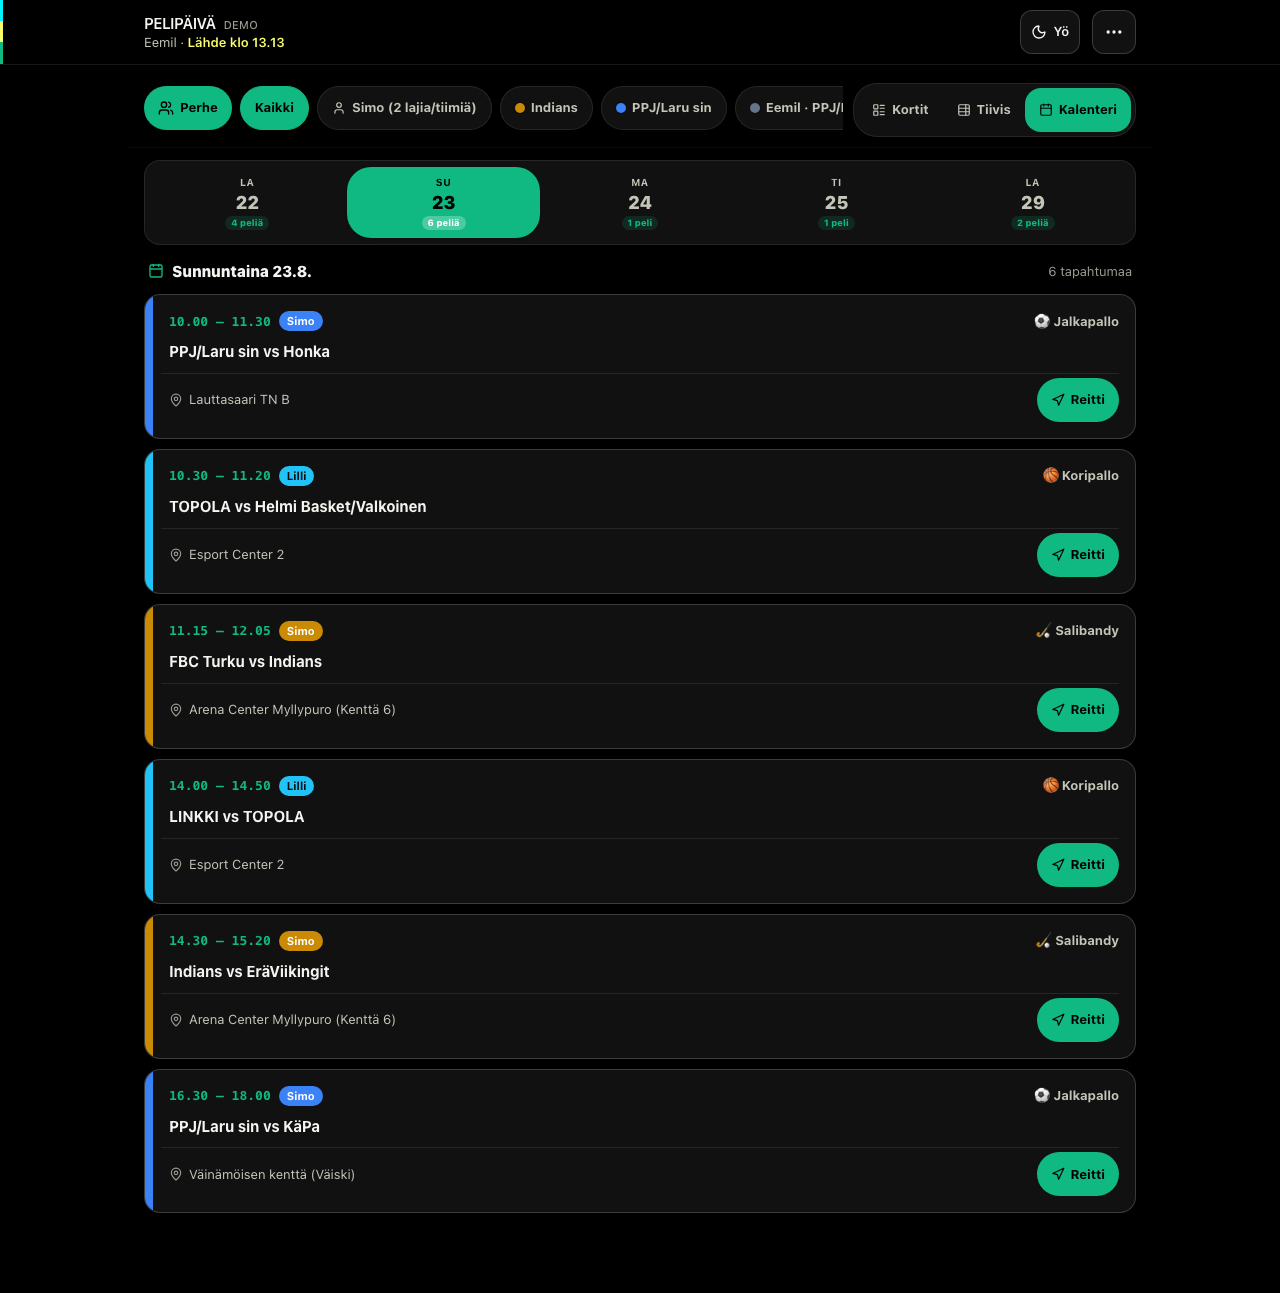
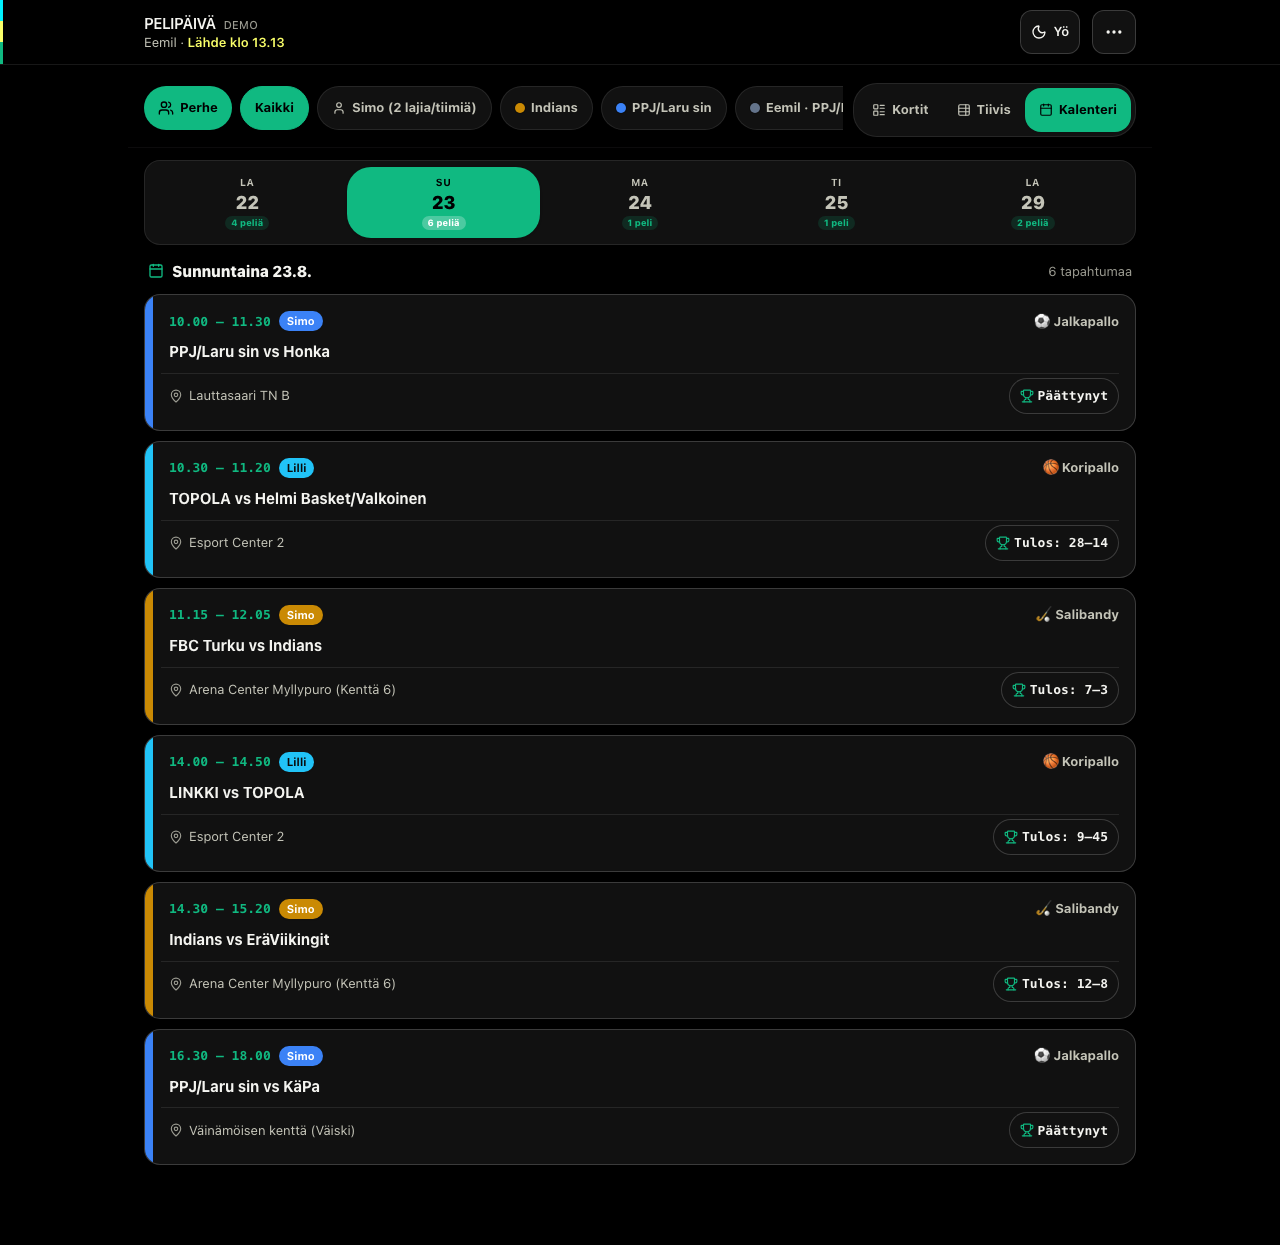
feat(ui): display match results instead of Reitti button for past games

diff --git a/src/components/TimelineCalendarView.tsx b/src/components/TimelineCalendarView.tsx
@@ -227,7 +227,7 @@ export const TimelineCalendarView: React.FC<TimelineCalendarViewProps> = ({
                       );
                     })()}
 
-                    {/* Bottom Row: Venue, Nappisvahti & Navigation */}
+                    {/* Bottom Row: Venue, Nappisvahti & Navigation / Result */}
                     <div className="pl-1.5 pt-2 border-t border-border-subtle/60 flex items-center justify-between text-xs text-text-secondary gap-2">
                       <div className="flex items-center gap-1.5 truncate min-w-0">
                         <MapPin className="w-3.5 h-3.5 text-text-muted shrink-0" />
@@ -239,26 +239,35 @@ export const TimelineCalendarView: React.FC<TimelineCalendarViewProps> = ({
                         )}
                       </div>
 
-                      <button
-                        type="button"
-                        aria-label={`Navigoi kentälle ${ev.venue.name}`}
-                        onClick={(e) => {
-                          e.stopPropagation();
-                          if (onNavigate) {
-                            onNavigate(ev);
-                          } else {
-                            const coords = ev.parking?.coordinates || ev.venue.coordinates;
-                            window.open(
-                              `https://www.google.com/maps/dir/?api=1&destination=${coords.lat},${coords.lng}`,
-                              '_blank'
-                            );
-                          }
-                        }}
-                        className="min-h-[44px] px-3 rounded-xl bg-pitch/15 text-pitch hover:bg-pitch hover:text-text-inverse text-xs font-bold flex items-center gap-1.5 cursor-pointer transition-all shrink-0 focus-visible:ring-2 focus-visible:ring-pitch"
-                      >
-                        <Navigation className="w-3.5 h-3.5" />
-                        <span>Reitti</span>
-                      </button>
+                      {new Date(ev.endTime) <= new Date() || ev.score !== undefined ? (
+                        <div className="flex items-center gap-1.5 shrink-0">
+                          <span className="min-h-[36px] px-2.5 rounded-xl bg-surface border border-border-strong text-text-primary font-mono font-black text-xs flex items-center gap-1 shadow-2xs">
+                            <Trophy className="w-3.5 h-3.5 text-pitch" />
+                            <span>{ev.score ? `Tulos: ${ev.score}` : 'Päättynyt'}</span>
+                          </span>
+                        </div>
+                      ) : (
+                        <button
+                          type="button"
+                          aria-label={`Navigoi kentälle ${ev.venue.name}`}
+                          onClick={(e) => {
+                            e.stopPropagation();
+                            if (onNavigate) {
+                              onNavigate(ev);
+                            } else {
+                              const coords = ev.parking?.coordinates || ev.venue.coordinates;
+                              window.open(
+                                `https://www.google.com/maps/dir/?api=1&destination=${coords.lat},${coords.lng}`,
+                                '_blank'
+                              );
+                            }
+                          }}
+                          className="min-h-[44px] px-3 rounded-xl bg-pitch/15 text-pitch hover:bg-pitch hover:text-text-inverse text-xs font-bold flex items-center gap-1.5 cursor-pointer transition-all shrink-0 focus-visible:ring-2 focus-visible:ring-pitch"
+                        >
+                          <Navigation className="w-3.5 h-3.5" />
+                          <span>Reitti</span>
+                        </button>
+                      )}
                     </div>
                   </motion.div>
                 );
@@ -395,27 +404,37 @@ export const TimelineCalendarView: React.FC<TimelineCalendarViewProps> = ({
                     );
                   })()}
 
-                  <div className="pl-2 flex items-center justify-between text-xs text-text-secondary pt-1 border-t border-border-subtle">
-                    <div className="flex items-center gap-1.5 truncate">
+                  <div className="pl-2 flex items-center justify-between text-xs text-text-secondary pt-1 border-t border-border-subtle gap-2">
+                    <div className="flex items-center gap-1.5 truncate min-w-0">
                       <MapPin className="w-3.5 h-3.5 text-text-muted shrink-0" />
                       <span className="truncate">{ev.venue.name}</span>
                     </div>
 
-                    <button
-                      type="button"
-                      aria-label={`Navigoi kentälle ${ev.venue.name}`}
-                      onClick={() => {
-                        const coords = ev.parking?.coordinates || ev.venue.coordinates;
-                        window.open(
-                          `https://www.google.com/maps/dir/?api=1&destination=${coords.lat},${coords.lng}`,
-                          '_blank'
-                        );
-                      }}
-                      className="min-h-[44px] px-3.5 rounded-xl bg-pitch text-text-inverse font-bold text-xs flex items-center gap-1.5 hover:brightness-110 cursor-pointer transition-all shadow-xs focus-visible:ring-2 focus-visible:ring-pitch"
-                    >
-                      <Navigation className="w-3.5 h-3.5" />
-                      <span>Reitti</span>
-                    </button>
+                    {new Date(ev.endTime) <= new Date() || ev.score !== undefined ? (
+                      <div className="flex items-center gap-1.5 shrink-0">
+                        <span className="min-h-[36px] px-2.5 rounded-xl bg-surface border border-border-strong text-text-primary font-mono font-black text-xs flex items-center gap-1 shadow-2xs">
+                          <Trophy className="w-3.5 h-3.5 text-pitch" />
+                          <span>{ev.score ? `Tulos: ${ev.score}` : 'Päättynyt'}</span>
+                        </span>
+                      </div>
+                    ) : (
+                      <button
+                        type="button"
+                        aria-label={`Navigoi kentälle ${ev.venue.name}`}
+                        onClick={(e) => {
+                          e.stopPropagation();
+                          const coords = ev.parking?.coordinates || ev.venue.coordinates;
+                          window.open(
+                            `https://www.google.com/maps/dir/?api=1&destination=${coords.lat},${coords.lng}`,
+                            '_blank'
+                          );
+                        }}
+                        className="min-h-[44px] px-3.5 rounded-xl bg-pitch text-text-inverse font-bold text-xs flex items-center gap-1.5 hover:brightness-110 cursor-pointer transition-all shadow-xs shrink-0 focus-visible:ring-2 focus-visible:ring-pitch"
+                      >
+                        <Navigation className="w-3.5 h-3.5" />
+                        <span>Reitti</span>
+                      </button>
+                    )}
                   </div>
                 </div>
               );

diff --git a/src/components/TournamentWeekendPanel.tsx b/src/components/TournamentWeekendPanel.tsx
@@ -174,25 +174,31 @@ export const TournamentWeekendPanel: React.FC<TournamentWeekendPanelProps> = ({ 
                               {m.title}
                             </span>
 
-                            <button
-                              type="button"
-                              aria-label={`Navigoi kentälle ${m.venue.name}`}
-                              onClick={() => {
-                                if (onNavigate) {
-                                  onNavigate(m.venue.coordinates);
-                                } else {
-                                  const coords = m.parking?.coordinates || m.venue.coordinates;
-                                  window.open(
-                                    `https://www.google.com/maps/dir/?api=1&destination=${coords.lat},${coords.lng}`,
-                                    '_blank'
-                                  );
-                                }
-                              }}
-                              className="inline-flex items-center gap-1 px-2 py-1 rounded-lg bg-pitch/15 text-pitch hover:bg-pitch hover:text-text-inverse transition-all cursor-pointer text-[11px] font-bold shrink-0"
-                            >
-                              <Navigation className="w-3 h-3" />
-                              <span>{m.venue.name.includes('Kenttä') ? m.venue.name.split('(')[1]?.replace(')', '') || 'Kenttä' : 'Reitti'}</span>
-                            </button>
+                            {isPast || m.score ? (
+                              <span className="inline-flex items-center px-2 py-0.5 rounded-lg bg-surface border border-border-strong text-text-primary font-mono font-black text-xs shrink-0 shadow-2xs">
+                                {m.score ? `Tulos: ${m.score}` : 'Päättynyt'}
+                              </span>
+                            ) : (
+                              <button
+                                type="button"
+                                aria-label={`Navigoi kentälle ${m.venue.name}`}
+                                onClick={() => {
+                                  if (onNavigate) {
+                                    onNavigate(m.venue.coordinates);
+                                  } else {
+                                    const coords = m.parking?.coordinates || m.venue.coordinates;
+                                    window.open(
+                                      `https://www.google.com/maps/dir/?api=1&destination=${coords.lat},${coords.lng}`,
+                                      '_blank'
+                                    );
+                                  }
+                                }}
+                                className="inline-flex items-center gap-1 px-2 py-1 rounded-lg bg-pitch/15 text-pitch hover:bg-pitch hover:text-text-inverse transition-all cursor-pointer text-[11px] font-bold shrink-0"
+                              >
+                                <Navigation className="w-3 h-3" />
+                                <span>{m.venue.name.includes('Kenttä') ? m.venue.name.split('(')[1]?.replace(')', '') || 'Kenttä' : 'Reitti'}</span>
+                              </button>
+                            )}
                           </div>
                         </div>
                       );

diff --git a/src/components/MatchdayCard.tsx b/src/components/MatchdayCard.tsx
@@ -510,24 +510,38 @@ export const MatchdayCard: React.FC<MatchdayCardProps> = ({
               <Share2 className="w-4 h-4" />
             </motion.button>
 
-            <motion.button
-              whileHover={{ scale: 1.03 }}
-              whileTap={{ scale: 0.96 }}
-              transition={springTactile.snappy}
-              onClick={
-                onNavigateToVenue ||
-                (() => {
-                  const targetCoords = event.parking?.coordinates || event.venue.coordinates;
-                  const mapsUrl = `https://www.google.com/maps/dir/?api=1&destination=${targetCoords.lat},${targetCoords.lng}`;
-                  window.open(mapsUrl, '_blank');
-                })
-              }
-              aria-label={`Navigoi kohteeseen ${event.venue.name}`}
-              className="inline-flex min-h-[44px] items-center gap-2 px-4 py-2.5 rounded-xl bg-pitch text-text-inverse font-bold text-xs shadow-md shadow-pitch/20 hover:brightness-110 active:brightness-95 cursor-pointer focus-visible:ring-2 focus-visible:ring-pitch transition-all"
-            >
-              <Navigation className="w-3.5 h-3.5" />
-              <span>Navigoi paikalle</span>
-            </motion.button>
+            {isPast ? (
+              <motion.button
+                whileHover={{ scale: 1.03 }}
+                whileTap={{ scale: 0.96 }}
+                transition={springTactile.snappy}
+                onClick={() => setIsStatsModalOpen(true)}
+                aria-label="Avaa ottelutilastot ja tulos"
+                className="inline-flex min-h-[44px] items-center gap-2 px-4 py-2.5 rounded-xl bg-surface-elevated border border-border-strong text-text-primary font-bold text-xs shadow-xs hover:border-pitch hover:text-pitch cursor-pointer focus-visible:ring-2 focus-visible:ring-pitch transition-all"
+              >
+                <Trophy className="w-3.5 h-3.5 text-pitch" />
+                <span>{currentScore ? `Tulos: ${currentScore}` : 'Katso tilastot & tulos'}</span>
+              </motion.button>
+            ) : (
+              <motion.button
+                whileHover={{ scale: 1.03 }}
+                whileTap={{ scale: 0.96 }}
+                transition={springTactile.snappy}
+                onClick={
+                  onNavigateToVenue ||
+                  (() => {
+                    const targetCoords = event.parking?.coordinates || event.venue.coordinates;
+                    const mapsUrl = `https://www.google.com/maps/dir/?api=1&destination=${targetCoords.lat},${targetCoords.lng}`;
+                    window.open(mapsUrl, '_blank');
+                  })
+                }
+                aria-label={`Navigoi kohteeseen ${event.venue.name}`}
+                className="inline-flex min-h-[44px] items-center gap-2 px-4 py-2.5 rounded-xl bg-pitch text-text-inverse font-bold text-xs shadow-md shadow-pitch/20 hover:brightness-110 active:brightness-95 cursor-pointer focus-visible:ring-2 focus-visible:ring-pitch transition-all"
+              >
+                <Navigation className="w-3.5 h-3.5" />
+                <span>Navigoi paikalle</span>
+              </motion.button>
+            )}
           </div>
         </div>
       </motion.div>
